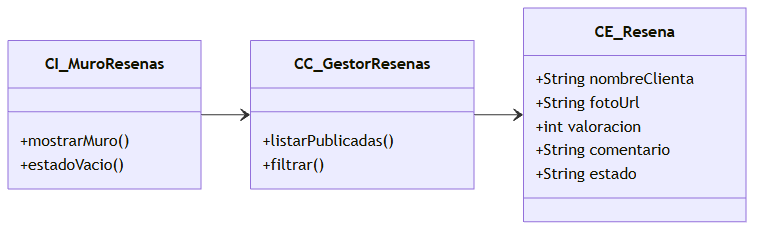
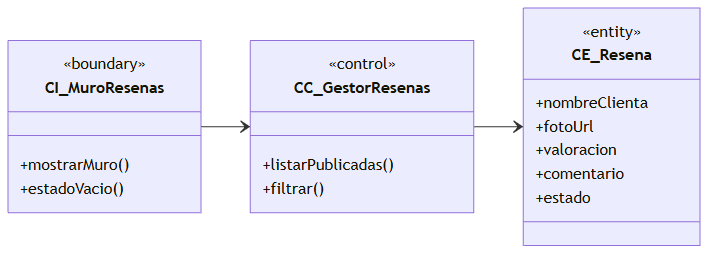
fix: alinear diagramas de analisis con el tema 1

diff --git a/docs/02-modelo-de-analisis.md b/docs/02-modelo-de-analisis.md
@@ -1,6 +1,6 @@
 # Modelo de Análisis del Sistema
 
-> **Resumen ejecutivo.** 8 casos de uso, 17 clases del análisis y 17 diagramas exportados para Mely Faciales (1 global, 8 de clases y 8 de colaboración). Los diagramas no se incrustan: se referencian desde `images/diagramas de clases del analisis/`.
+> **Resumen ejecutivo.** 8 casos de uso, 17 clases del análisis y 18 diagramas (1 global, 1 de paquetes, 8 de clases y 8 de colaboración). Los diagramas no se incrustan: se referencian desde `images/diagramas de clases del analisis/`.
 
 | Campo | Valor |
 |---|---|
@@ -36,11 +36,13 @@ Actores: Cliente (primario), Administradora = Mely (secundario), WhatsApp (siste
 | CU-08 | Gestionar contenido del catálogo sin volver a desplegar | Administradora | Media |
 
 ## 3. Paquetes y clases del análisis
-Paquetes: `Paquete_Interfaz` (Frontera), `Paquete_Negocio` (Control), `Paquete_Dominio` (Entity).
+Paquetes: `Paquete_Interfaz` (Boundary), `Paquete_Negocio` (Control), `Paquete_Dominio` (Entity).
+
+![Paquetes del análisis](<images/diagramas de clases del analisis/paquetes/paquetes-analisis.png>)
 
 | Estereotipo | Significado |
 |---|---|
-| Interfaz (Frontera) | Frontera con el usuario o con un sistema externo |
+| Interfaz (Boundary) | Frontera con el usuario o con un sistema externo |
 | Control | Coordina un caso de uso y a las entidades |
 | Entidad | Información del dominio del negocio |
 
@@ -67,56 +69,56 @@ Paquetes: `Paquete_Interfaz` (Frontera), `Paquete_Negocio` (Control), `Paquete_D
 **Diagrama global:** `images/diagramas de clases del analisis/clases/modelo-analisis-clases.png`
 
 ## 4. Realizaciones de los casos de uso
-Para cada caso de uso se entrega un diagrama de clases del análisis y un diagrama de colaboración con mensajes numerados, construidos a partir de su descripción literal.
+Para cada caso de uso se entrega un diagrama de clases del análisis y un diagrama de colaboración con mensajes numerados sobre enlaces; los escenarios alternos van en trazo discontinuo.
 
 ### CU-01 — Consultar catálogo de servicios
 Actor: Cliente. Precondición: web accesible. Postcondición: catálogo visible.
 Flujo principal: entra → ve el catálogo. Alterno: sin servicios activos muestra "Próximamente".
 - Diagrama de clases: ![Diagrama de clases CU-01](<images/diagramas de clases del analisis/clases/CU-01-clases.png>)
 - Diagrama de colaboración: ![Colaboración CU-01](<images/diagramas de clases del analisis/colaboracion/CU-01-colaboracion.png>)
-- Mensajes principales: 1. Entra · 2. mostrarCatalogo · 3. listarServicios · 4. buscarActivos · 5. servicios · 6. lista · 7. Mostrar catálogo / 7a. Próximamente.
+- Mensajes principales: 1: Entra · 2: mostrarCatalogo() · 3: listarServicios() · 4: buscarActivos() · 5: servicios · 6: lista · 7: Mostrar catálogo / 7a: Sin servicios activos: Próximamente.
 
 ### CU-02 — Ver detalle de servicio
 Actor: Cliente. Postcondición: detalle con video/descripción visible. Alternos: sin video → imagen de portada.
 - Diagrama de clases: ![Diagrama de clases CU-02](<images/diagramas de clases del analisis/clases/CU-02-clases.png>)
 - Diagrama de colaboración: ![Colaboración CU-02](<images/diagramas de clases del analisis/colaboracion/CU-02-colaboracion.png>)
-- Mensajes principales: 1. Selecciona tarjeta · 2. mostrarDetalle · 3. obtenerDetalle · 4. buscar · 5. buscarPorServicio · 6-7. datos y videoUrl · 8. Mostrar video / 8a. Mostrar imagen.
+- Mensajes principales: 1: Selecciona tarjeta · 2: mostrarDetalle() · 3: obtenerDetalle() · 4: buscar() · 5: buscarPorServicio() · 6: datos · 7: videoUrl · 8: Mostrar video / 8a: Sin video: mostrar imagen de portada.
 
 ### CU-03 — Publicar reseña
 Actor: Cliente. Postcondición: reseña visible con estado PUBLICADA. Alternos: sin foto, datos inválidos, foto inválida.
 - Diagrama de clases: ![Diagrama de clases CU-03](<images/diagramas de clases del analisis/clases/CU-03-clases.png>)
 - Diagrama de colaboración: ![Colaboración CU-03](<images/diagramas de clases del analisis/colaboracion/CU-03-colaboracion.png>)
-- Mensajes principales: 1. Dejar reseña · 2. listarServicios · 3-4. buscarPorServicio · 5. Mostrar formulario · 6. Ingresar datos · 7. validar · 8a/9a. Error · 8b/9b. guardarFoto · 10. crear · 11. crearReseña(PUBLICADA) · 12. reseña creada · 13. publicar · 14. Confirmación.
+- Mensajes principales: 1: Dejar reseña · 2: listarServicios() · 3: buscarPorServicio() · 4: servicios · 5: Mostrar formulario · 6: Ingresar datos · 7: validar() · 8a: Error: datos inválidos · 9a: Mostrar error de datos · 8b: guardarFoto() · 9b: fotoUrl · 8c: Error: foto inválida · 9c: Mostrar error de foto · 8d: Sin foto: omitir foto · 10: crear() · 11: crearReseña(PUBLICADA) · 12: reseña creada · 13: publicar · 14: Confirmación.
 
 ### CU-04 — Consultar muro de reseñas
 Actor: Cliente. Postcondición: muro visible. Alterno: muro vacío → "Sé la primera en opinar".
 - Diagrama de clases: ![Diagrama de clases CU-04](<images/diagramas de clases del analisis/clases/CU-04-clases.png>)
 - Diagrama de colaboración: ![Colaboración CU-04](<images/diagramas de clases del analisis/colaboracion/CU-04-colaboracion.png>)
-- Mensajes principales: 1. Ver reseñas · 2. listarPublicadas · 3. reseñas · 4. lista · 5. Mostrar muro / 5a. Estado vacío.
+- Mensajes principales: 1: Ver reseñas · 2: listarPublicadas() · 3: buscarPublicadas() · 4: reseñas · 5: lista · 6: Mostrar muro / 6a: Muro vacío: Sé la primera en opinar.
 
 ### CU-05 — Contactar por WhatsApp
 Actor: Cliente. Postcondición: chat abierto con mensaje contextual. Alterno: sin WhatsApp → número para copiar.
 - Diagrama de clases: ![Diagrama de clases CU-05](<images/diagramas de clases del analisis/clases/CU-05-clases.png>)
 - Diagrama de colaboración: ![Colaboración CU-05](<images/diagramas de clases del analisis/colaboracion/CU-05-colaboracion.png>)
-- Mensajes principales: 1. Elige servicio · 2. Mostrar detalle · 3. Pulsa CTA · 4. construirLink · 5. mensaje contextual con +5355795510 · 6. wa.me · 7. Abrir chat / 7a. Copiar número.
+- Mensajes principales: 1: Elige servicio · 2: Mostrar detalle · 3: Pulsa CTA · 4: construirLink() · 5: mensaje contextual con +5355795510 · 6: wa.me · 7: Abrir chat / 7a: Sin WhatsApp: copiar +5355795510.
 
 ### CU-06 — Eliminar reseña
 Actor: Administradora. Postcondición: reseña no visible. Alternos: credenciales inválidas, cancelación, error al borrar.
 - Diagrama de clases: ![Diagrama de clases CU-06](<images/diagramas de clases del analisis/clases/CU-06-clases.png>)
 - Diagrama de colaboración: ![Colaboración CU-06](<images/diagramas de clases del analisis/colaboracion/CU-06-colaboracion.png>)
-- Mensajes principales: 1. Credenciales · 2. autenticar · 3. sesión ADMIN / 3a. error · 4. Panel · 5. listarReseñas · 6. buscarTodas · 7. reseñas · 8. Seleccionar · 9. confirmarEliminación · 10. borrar · 11. confirmación · 12. refrescar · 13. Reseña no visible.
+- Mensajes principales: 1: Credenciales · 2: autenticar() · 3: buscarPorUsuario() · 4: administradora · 5: sesión ADMIN / 5a: Credenciales inválidas / 5b: Error de autenticación · 6: Panel · 7: listarReseñas() · 8: buscarTodas() · 9: buscarPorId() · 10: reseñas · 11: lista de reseñas · 12: Seleccionar · 13: confirmarEliminación() · 14: Aceptar / 14a: Cancelación · 15: borrar() · 16: deleteById() · 17: confirmación / 17a: Error al borrar · 18: refrescar · 19: Reseña no visible.
 
 ### CU-07 — Iniciar sesión
 Actor: Administradora. Postcondición: sesión con rol ADMIN. Alternos: inválida, sesión ya activa.
 - Diagrama de clases: ![Diagrama de clases CU-07](<images/diagramas de clases del analisis/clases/CU-07-clases.png>)
 - Diagrama de colaboración: ![Colaboración CU-07](<images/diagramas de clases del analisis/colaboracion/CU-07-colaboracion.png>)
-- Mensajes principales: 1. Entrar a /admin · 2. Mostrar formulario · 3. Credenciales · 4. autenticar · 5. buscarPorUsuario · 6. resultado · 7. sesión ADMIN / 7a. error · 8. Panel / 8a. Mensaje de error.
+- Mensajes principales: 1: Entrar a /admin · 2: Mostrar formulario · 3: Credenciales · 4: autenticar() · 5: buscarPorUsuario() · 6: resultado · 7: sesión ADMIN / 7a: Credenciales inválidas / 7b: Mensaje de error / 7c: Sesión ya activa · 8: Panel.
 
 ### CU-08 — Gestionar contenido del catálogo sin volver a desplegar
 Actor: Administradora. Postcondición: catálogo actualizado sin volver a desplegar. Alternos: solo texto, nuevo video, video inválido.
 - Diagrama de clases: ![Diagrama de clases CU-08](<images/diagramas de clases del analisis/clases/CU-08-clases.png>)
 - Diagrama de colaboración: ![Colaboración CU-08](<images/diagramas de clases del analisis/colaboracion/CU-08-colaboracion.png>)
-- Mensajes principales: 1. Editar servicio · 2. obtener · 3. buscar · 4-5. Mostrar formulario · 6. Modificar · 7-8. guardarVideo (opcional) · 9. actualizar · 10. guardar · 11. actualizado · 12. Confirmación · 13. Catálogo actualizado.
+- Mensajes principales: 1: Editar servicio · 2: obtener() · 3: buscar() · 4: servicio · 5: Mostrar formulario · 6: Formulario visible · 7: Modificar texto · 8: Solo texto: sin video · 9: guardarVideo() · 10: videoUrl / 9a: Video inválido / 10a: Error de video · 11: actualizar() · 12: guardado · 13: actualizado · 14: Confirmación / 14a: Error al guardar · 15: Catálogo actualizado.
 
 ## 5. Trazabilidad Modelo de CU → Modelo de Análisis
 | CU | Clases que lo realizan |

diff --git a/CHANGELOG.md b/CHANGELOG.md
@@ -11,7 +11,8 @@ El formato sigue *Keep a Changelog* y la versión sigue *Semantic Versioning*.
 - Actualización de README.md y SPRINTBOARD.md con la documentación cerrada en Sprint 0.
 - Reorientación del proyecto a Mely Faciales con catálogo exclusivo de tratamientos faciales.
 - Número de WhatsApp confirmado: `+5355795510`, con deep link `https://wa.me/5355795510?text=...`.
-- Los 37 diagramas regenerados para reflejar el nuevo alcance.
+- Los 38 diagramas regenerados para reflejar el nuevo alcance.
+- Diagramas de análisis con estereotipos Boundary/Control/Entity, paquete de análisis y colaboraciones con mensajes numerados.
 
 ### Changed
 - Se eliminaron las referencias académicas de la documentación para presentarla como documentación profesional del proyecto.
@@ -31,7 +32,7 @@ El formato sigue *Keep a Changelog* y la versión sigue *Semantic Versioning*.
 - `SPRINTBOARD.md` con la planificación Scrum del Sprint 0.
 - Documento de extracción de requisitos funcionales y no funcionales.
 - Documento del Modelo de Análisis (UML) con referencias a los diagramas.
-- 17 diagramas exportados: 1 global, 8 de clases del análisis y 8 de colaboración.
+- 18 diagramas exportados: 1 global, 1 de paquetes, 8 de clases del análisis y 8 de colaboración.
 
 ---
 

diff --git a/SPRINTBOARD.md b/SPRINTBOARD.md
@@ -49,12 +49,13 @@ Progreso del Sprint 0: `██████████ 100%` (12/12 tareas Done)
 | SPRINTBOARD.md | Done |
 | Extracción de requisitos funcionales y no funcionales | Done |
 | Modelo de análisis con referencias a diagramas | Done |
-| Exportar 17 diagramas de análisis | Done |
+| Exportar 18 diagramas de análisis | Done |
 | Documento del Modelo de Diseño | Done |
 | 20 diagramas exportados a PNG | Done |
 | Actualización de README y CHANGELOG | Done |
 | Actualización del Sprintboard | Done |
-| Reorientación a Mely Faciales y regeneración de 37 diagramas | Done |
+| Reorientación a Mely Faciales y regeneración de 38 diagramas | Done |
+| Diagrama de paquetes y colaboraciones numeradas | Done |
 
 ## Sprints futuros (por definir)
 - Sprint 1: implementación del backend Spring Boot y del frontend React.

diff --git a/docs/03-modelo-de-diseno.md b/docs/03-modelo-de-diseno.md
@@ -1,6 +1,6 @@
 # Modelo de Diseño del Sistema
 
-> **Resumen ejecutivo.** El modelo de análisis se transforma en un modelo físico aplicable a Java 17/21 + Spring Boot 3 y React + TypeScript. para Mely Faciales Se definen 4 paquetes, 5 subsistemas, 5 interfaces de aplicación, las clases del diseño y 8 realizaciones de caso de uso. El resultado son 20 diagramas referenciados desde `images/modelo-de-diseno/`.
+> **Resumen ejecutivo.** El modelo de análisis se transforma en un modelo físico aplicable a Java 17/21 + Spring Boot 3 y React + TypeScript para Mely Faciales. Se definen 4 paquetes, 5 subsistemas, 5 interfaces de aplicación, las clases del diseño y 8 realizaciones de caso de uso. El resultado son 20 diagramas referenciados desde `images/modelo-de-diseno/`.
 
 | Campo | Valor |
 |---|---|
